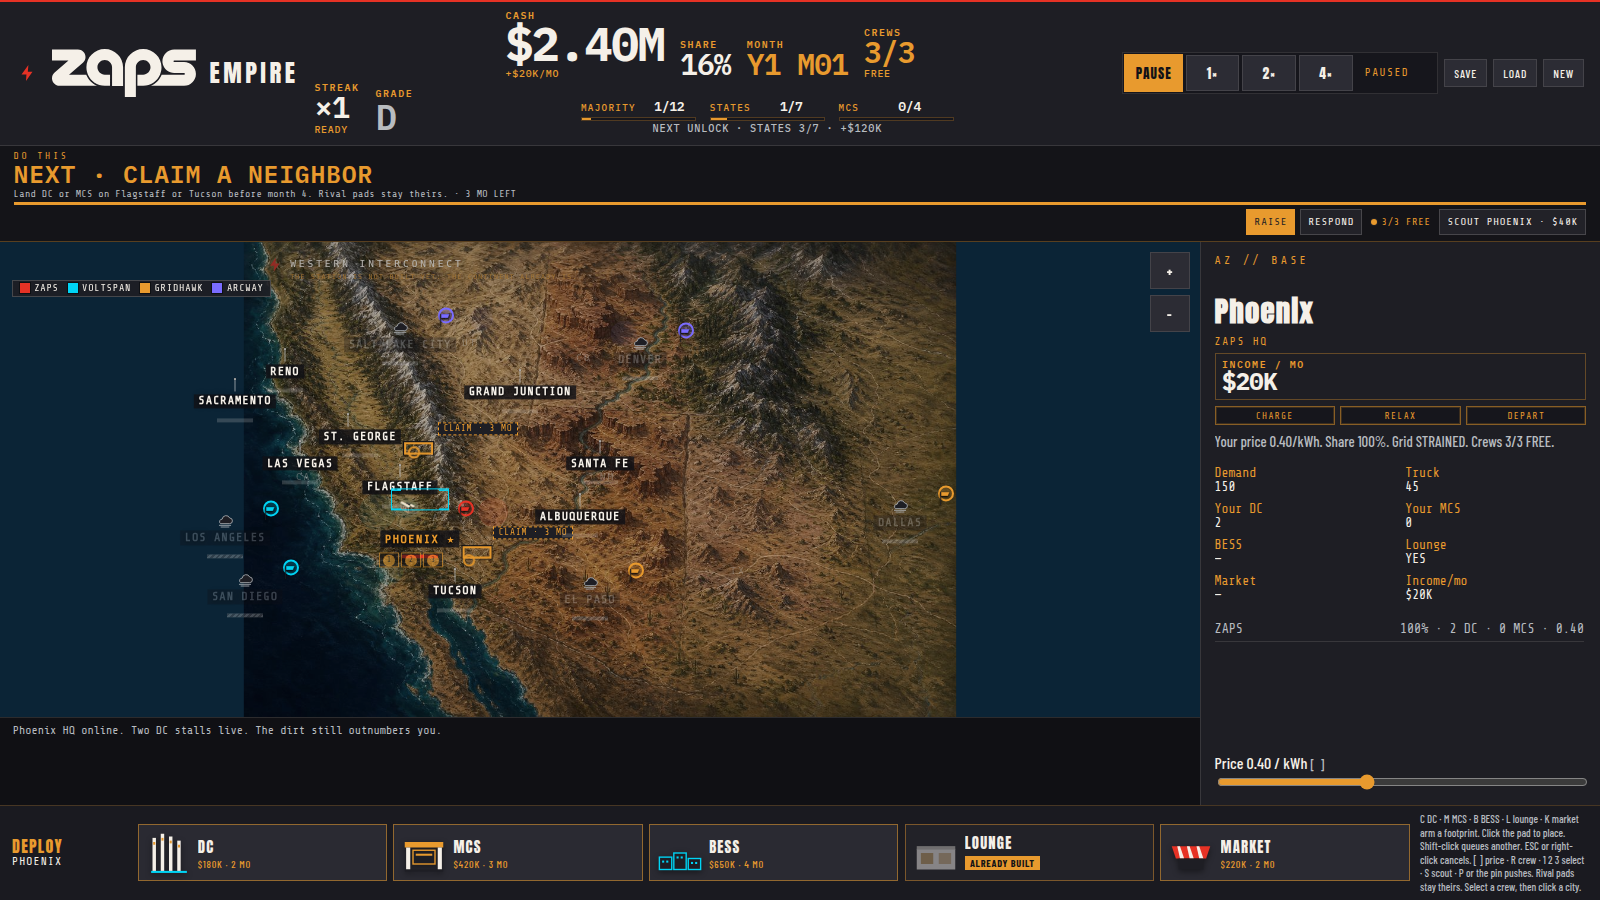
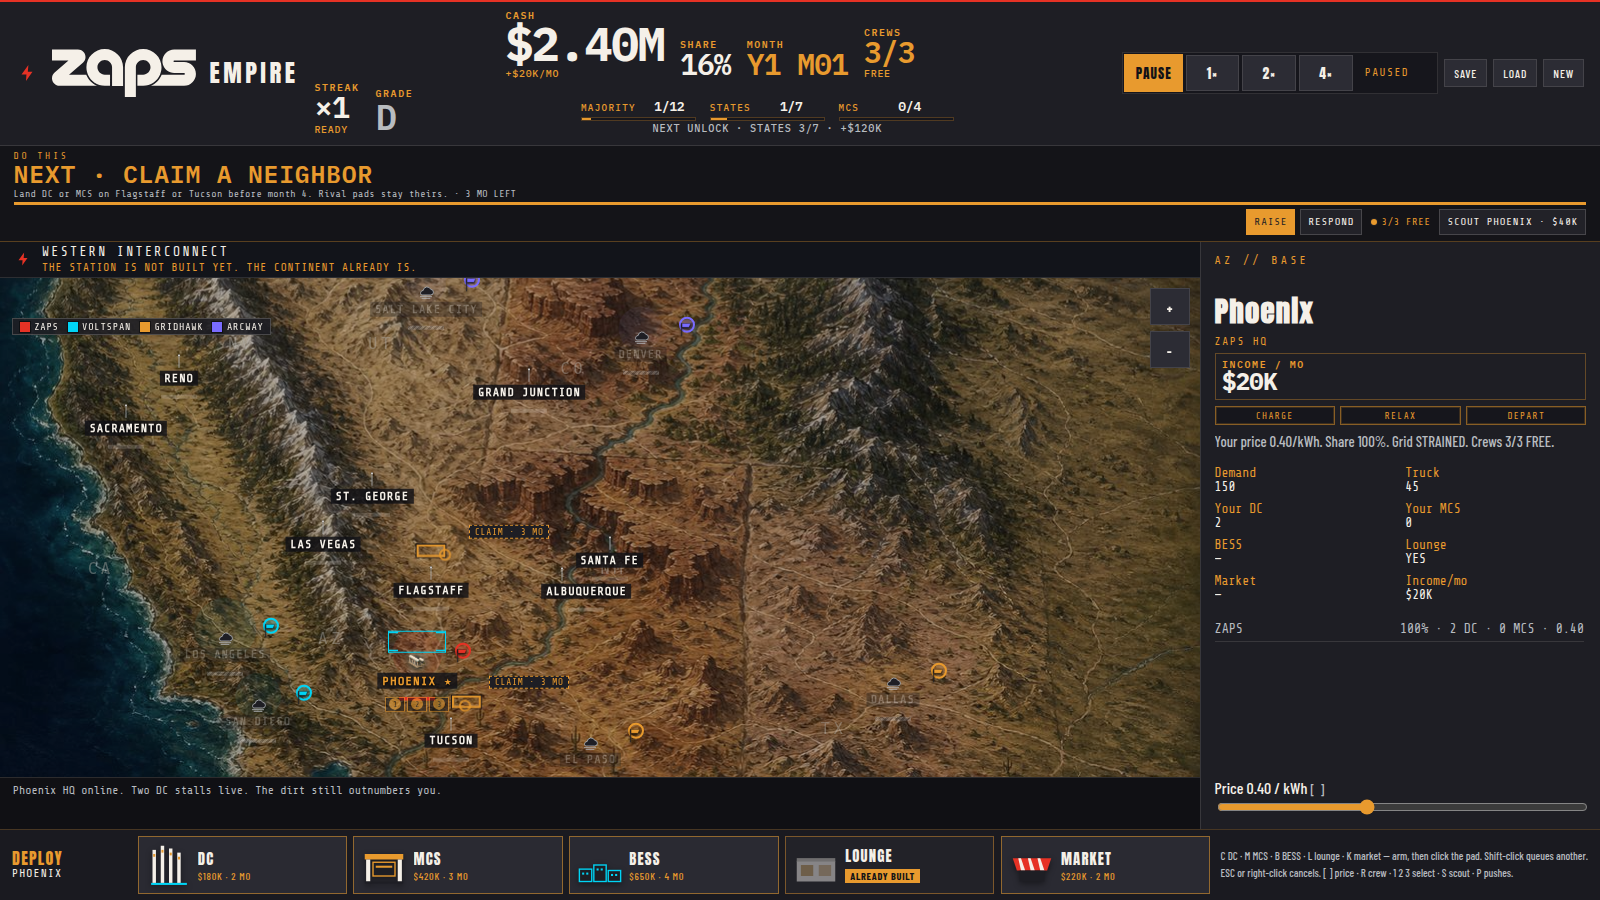
ZAPS EMPIRE: cover the map and seat cities on the terrain (rts-yard-28)
The terrain fills the map panel and pan cannot open a gap. City pins share one lat/lon plane anchored on Los Angeles, Denver, and El Paso. The interconnect title sits in its own strip, and the deploy hotkeys read as two lines.

diff --git a/game.js b/game.js
@@ -166,23 +166,27 @@
     ampfield: { id: "ampfield", name: "AMPFIELD", color: "#2EAF6A", home: "albuquerque", unlock: 24, priceBias: 1.0 },
   };
 
+  // Painted terrain is a 1200×800 plate. Pins use one affine lat/lon → pixel
+  // plane, solved so Los Angeles, Denver, and El Paso sit on their anchors:
+  //   x = 31.125726·lon + 0.435784·lat + 3890.582
+  //   y = -0.925216·lon - 50.595700·lat + 2068.494
   const CITIES = [
-    { id: "sacramento", name: "Sacramento", state: "CA", x: 235, y: 225, demand: 90, truck: 25, land: 1.15, neighbors: ["reno", "la"] },
-    { id: "reno", name: "Reno", state: "NV", x: 285, y: 175, demand: 55, truck: 30, land: 0.9, neighbors: ["sacramento", "vegas", "slc"] },
-    { id: "slc", name: "Salt Lake City", state: "UT", x: 400, y: 130, demand: 95, truck: 40, land: 1.05, neighbors: ["reno", "stgeorge", "grandjunction", "denver"] },
-    { id: "grandjunction", name: "Grand Junction", state: "CO", x: 520, y: 210, demand: 40, truck: 35, land: 0.82, neighbors: ["denver", "flagstaff", "santafe", "slc"] },
+    { id: "sacramento", name: "Sacramento", state: "CA", x: 126, y: 229, demand: 90, truck: 25, land: 1.15, neighbors: ["reno", "la"] },
+    { id: "reno", name: "Reno", state: "NV", x: 179, y: 179, demand: 55, truck: 30, land: 0.9, neighbors: ["sacramento", "vegas", "slc"] },
+    { id: "slc", name: "Salt Lake City", state: "UT", x: 426, y: 110, demand: 95, truck: 40, land: 1.05, neighbors: ["reno", "stgeorge", "grandjunction", "denver"] },
+    { id: "grandjunction", name: "Grand Junction", state: "CO", x: 529, y: 193, demand: 40, truck: 35, land: 0.82, neighbors: ["denver", "flagstaff", "santafe", "slc"] },
     { id: "denver", name: "Denver", state: "CO", x: 640, y: 155, demand: 120, truck: 35, land: 1.2, neighbors: ["santafe", "grandjunction", "slc"] },
     { id: "la", name: "Los Angeles", state: "CA", x: 225, y: 455, demand: 210, truck: 55, land: 1.7, neighbors: ["vegas", "sandiego", "sacramento"] },
-    { id: "vegas", name: "Las Vegas", state: "NV", x: 300, y: 330, demand: 140, truck: 50, land: 1.35, neighbors: ["phoenix", "la", "stgeorge", "reno"] },
-    { id: "stgeorge", name: "St. George", state: "UT", x: 360, y: 285, demand: 45, truck: 28, land: 0.85, neighbors: ["vegas", "flagstaff", "slc"] },
-    { id: "flagstaff", name: "Flagstaff", state: "AZ", x: 400, y: 370, demand: 50, truck: 22, land: 0.88, neighbors: ["phoenix", "stgeorge", "grandjunction"] },
-    { id: "phoenix", name: "Phoenix", state: "AZ", x: 420, y: 455, demand: 150, truck: 45, land: 1.0, neighbors: ["tucson", "flagstaff", "vegas", "albuquerque"] },
-    { id: "sandiego", name: "San Diego", state: "CA", x: 245, y: 555, demand: 130, truck: 30, land: 1.4, neighbors: ["la", "tucson"] },
-    { id: "tucson", name: "Tucson", state: "AZ", x: 455, y: 545, demand: 80, truck: 30, land: 0.92, neighbors: ["phoenix", "elpaso", "sandiego"] },
-    { id: "santafe", name: "Santa Fe", state: "NM", x: 600, y: 330, demand: 48, truck: 18, land: 0.95, neighbors: ["albuquerque", "denver", "grandjunction"] },
-    { id: "albuquerque", name: "Albuquerque", state: "NM", x: 580, y: 420, demand: 85, truck: 40, land: 0.98, neighbors: ["phoenix", "santafe", "elpaso", "dallas"] },
+    { id: "vegas", name: "Las Vegas", state: "NV", x: 323, y: 345, demand: 140, truck: 50, land: 1.35, neighbors: ["phoenix", "la", "stgeorge", "reno"] },
+    { id: "stgeorge", name: "St. George", state: "UT", x: 372, y: 297, demand: 45, truck: 28, land: 0.85, neighbors: ["vegas", "flagstaff", "slc"] },
+    { id: "flagstaff", name: "Flagstaff", state: "AZ", x: 431, y: 391, demand: 50, truck: 22, land: 0.88, neighbors: ["phoenix", "stgeorge", "grandjunction"] },
+    { id: "phoenix", name: "Phoenix", state: "AZ", x: 417, y: 480, demand: 150, truck: 45, land: 1.0, neighbors: ["tucson", "flagstaff", "vegas", "albuquerque"] },
+    { id: "sandiego", name: "San Diego", state: "CA", x: 258, y: 522, demand: 130, truck: 30, land: 1.4, neighbors: ["la", "tucson"] },
+    { id: "tucson", name: "Tucson", state: "AZ", x: 451, y: 541, demand: 80, truck: 30, land: 0.92, neighbors: ["phoenix", "elpaso", "sandiego"] },
+    { id: "santafe", name: "Santa Fe", state: "NM", x: 609, y: 361, demand: 48, truck: 18, land: 0.95, neighbors: ["albuquerque", "denver", "grandjunction"] },
+    { id: "albuquerque", name: "Albuquerque", state: "NM", x: 586, y: 392, demand: 85, truck: 40, land: 0.98, neighbors: ["phoenix", "santafe", "elpaso", "dallas"] },
     { id: "elpaso", name: "El Paso", state: "TX", x: 590, y: 560, demand: 75, truck: 55, land: 0.9, neighbors: ["tucson", "albuquerque", "dallas"] },
-    { id: "dallas", name: "Dallas", state: "TX", x: 900, y: 430, demand: 170, truck: 80, land: 1.25, neighbors: ["albuquerque", "elpaso"] },
+    { id: "dallas", name: "Dallas", state: "TX", x: 892, y: 500, demand: 170, truck: 80, land: 1.25, neighbors: ["albuquerque", "elpaso"] },
   ];
 
   const CITY_BY_ID = Object.fromEntries(CITIES.map((c) => [c.id, c]));
@@ -2956,9 +2960,10 @@
     const sw = stage.clientWidth;
     const sh = stage.clientHeight;
     if (sw < 40 || sh < 40) return;
+    const { fw, fh } = frameSize(sw, sh);
     mapCam.scale = 1.85;
-    const cx = (meta.x / 1200) * sw;
-    const cy = (meta.y / 800) * sh;
+    const cx = (meta.x / 1200) * fw;
+    const cy = (meta.y / 800) * fh;
     mapCam.x = sw * 0.46 - cx * mapCam.scale;
     mapCam.y = sh * 0.42 - cy * mapCam.scale;
     clampCam();
@@ -3967,9 +3972,73 @@
     renderFactionLegend();
   }
 
+  const MAP_ASPECT = 1200 / 800;
+  let mapFramed = false;
+  let mapFitted = false;
+
+  function frameSize(sw, sh) {
+    // One extra pixel past the cover size so subpixel rounding cannot open a gap.
+    if (sw / sh > MAP_ASPECT) return { fw: Math.ceil(sw) + 1, fh: Math.ceil(sw / MAP_ASPECT) + 1 };
+    return { fw: Math.ceil(sh * MAP_ASPECT) + 1, fh: Math.ceil(sh) + 1 };
+  }
+
+  function layoutMapFrame() {
+    const stage = $("map-stage");
+    const frame = $("map-frame");
+    if (!stage || !frame) return null;
+    const sw = stage.clientWidth;
+    const sh = stage.clientHeight;
+    if (sw < 40 || sh < 40) return null;
+    const { fw, fh } = frameSize(sw, sh);
+    frame.style.width = `${fw}px`;
+    frame.style.height = `${fh}px`;
+    if (!mapFramed) {
+      mapCam.scale = 1;
+      const ys = CITIES.map((c) => (c.y / 800) * fh);
+      const xs = CITIES.map((c) => (c.x / 1200) * fw);
+      const top = Math.min(...ys) - 22;
+      const bot = Math.max(...ys) + 32;
+      const left = Math.min(...xs) - 64;
+      const right = Math.max(...xs) + 72;
+      mapCam.x = (sw - (right - left)) / 2 - left;
+      mapCam.y = (sh - (bot - top)) / 2 - top;
+      mapFramed = true;
+    }
+    return { sw, sh, fw, fh };
+  }
+
+  // Once, after the pins and labels exist, shift the opening view so the
+  // northern icon and the southern name both sit inside the stage.
+  function fitCityCam() {
+    if (mapFitted) return;
+    const stage = $("map-stage");
+    if (!stage) return;
+    const box = stage.getBoundingClientRect();
+    if (box.height < 40) return;
+    let minTop = Infinity;
+    let maxBot = -Infinity;
+    document.querySelectorAll(".city-node").forEach((node) => {
+      [node.querySelector(".map-icon"), node.querySelector(".city-label")].forEach((el) => {
+        if (!el) return;
+        const r = el.getBoundingClientRect();
+        if (r.width < 2 || r.height < 2) return;
+        minTop = Math.min(minTop, r.top);
+        maxBot = Math.max(maxBot, r.bottom);
+      });
+    });
+    if (!Number.isFinite(minTop)) return;
+    const pad = 6;
+    const overflowTop = box.top + pad - minTop;
+    const overflowBot = maxBot - (box.bottom - pad);
+    mapCam.y -= (overflowBot - overflowTop) / 2;
+    mapFitted = true;
+  }
+
   function applyMapCam() {
     const cam = $("map-cam");
     if (!cam) return;
+    layoutMapFrame();
+    clampCam();
     cam.style.transform = `translate(${mapCam.x}px, ${mapCam.y}px) scale(${mapCam.scale})`;
     $("btn-exit-site")?.classList.toggle("hidden", !siteView);
     $("map-stage")?.classList.toggle("site-open", Boolean(siteView));
@@ -5600,16 +5669,21 @@
 
   function clampCam() {
     const stage = $("map-stage");
-    if (!stage) return;
+    const frame = $("map-frame");
+    if (!stage || !frame) return;
     const sw = stage.clientWidth;
     const sh = stage.clientHeight;
+    if (sw < 40 || sh < 40) return;
+    const { fw, fh } = frameSize(sw, sh);
+    frame.style.width = `${fw}px`;
+    frame.style.height = `${fh}px`;
     mapCam.scale = Math.min(3.4, Math.max(1, mapCam.scale));
-    const slackX = sw * 0.45;
-    const slackY = sh * 0.45;
-    const minX = sw - sw * mapCam.scale - slackX;
-    const maxX = slackX;
-    const minY = sh - sh * mapCam.scale - slackY;
-    const maxY = slackY;
+    const visW = fw * mapCam.scale;
+    const visH = fh * mapCam.scale;
+    const minX = Math.min(0, sw - visW);
+    const maxX = 0;
+    const minY = Math.min(0, sh - visH);
+    const maxY = 0;
     mapCam.x = Math.min(maxX, Math.max(minX, mapCam.x));
     mapCam.y = Math.min(maxY, Math.max(minY, mapCam.y));
   }
@@ -6060,12 +6134,17 @@
     renderInspector();
     renderTray();
     renderTicker();
-    applyMapCam();
     renderSiteYard();
     renderOps();
     renderWaypointHint();
     $("map-stage")?.classList.toggle("await-waypoint", Boolean(waypointCrew()) && !siteView);
+    applyMapCam();
     settleMapChrome();
+    if (!mapFitted && !siteView) {
+      fitCityCam();
+      applyMapCam();
+      settleMapChrome();
+    }
   }
 
   function hasSave() {
@@ -6513,6 +6592,7 @@
       b.addEventListener("click", () => setSpeed(Number(b.dataset.speed)));
     });
     window.addEventListener("resize", () => {
+      applyMapCam();
       settleMapChrome();
       const stack = $("site-stack");
       if (stack && siteView) frameSiteStack(stack, stack.style.aspectRatio || "220 / 131");

diff --git a/index.html b/index.html
@@ -136,10 +136,17 @@
 
       <div class="board-body">
         <div class="map-wrap">
+          <header class="map-banner">
+            <img class="bolt" src="assets/brand/bolt-red.svg" alt="" />
+            <div>
+              <p class="map-banner-title">WESTERN INTERCONNECT</p>
+              <p class="map-banner-sub">THE STATION IS NOT BUILT YET. THE CONTINENT ALREADY IS.</p>
+            </div>
+          </header>
           <div class="map-stage" id="map-stage">
             <div class="map-cam" id="map-cam">
               <div class="map-frame" id="map-frame">
-                <img class="map-art map-paint" src="assets/map.svg?v=rts-yard-4" alt="Southwest charging continent" />
+                <img class="map-art map-paint" src="assets/map.svg?v=rts-yard-28" alt="Southwest charging continent" />
                 <svg class="corridor-layer" id="corridor-layer" viewBox="0 0 1200 800" overflow="visible" aria-hidden="true"></svg>
                 <div id="city-layer" class="city-layer"></div>
               </div>
@@ -209,8 +216,8 @@
         <div class="tray-label" id="tray-label">DEPLOY</div>
         <div class="tray-grid" id="tray-grid"></div>
         <div class="tray-note">
-          C DC · M MCS · B BESS · L lounge · K market arm a footprint. Click the pad to place. Shift-click queues another. ESC or right-click cancels. [ ] price · R crew · 1 2 3 select · S scout · P or the pin pushes.
-          Rival pads stay theirs. Select a crew, then click a city.
+          <span>C DC · M MCS · B BESS · L lounge · K market — arm, then click the pad. Shift-click queues another.</span>
+          <span>ESC or right-click cancels. [ ] price · R crew · 1 2 3 select · S scout · P pushes.</span>
         </div>
       </footer>
     </section>

diff --git a/styles.css b/styles.css
@@ -522,14 +522,51 @@ button {
 
 .map-wrap {
   display: grid;
-  grid-template-rows: 1fr 88px;
+  grid-template-rows: auto 1fr 52px;
   min-height: 0;
   overflow: hidden;
   background: #0b2436;
 }
 
+.map-banner {
+  display: flex;
+  align-items: center;
+  gap: 0.65rem;
+  padding: 0.14rem 0.85rem 0.16rem;
+  background: #12141a;
+  border-bottom: 1px solid rgba(245, 240, 232, 0.12);
+}
+
+.map-banner .bolt {
+  width: 18px;
+  height: 22px;
+  flex: none;
+}
+
+.map-banner-title {
+  margin: 0;
+  font-family: "Share Tech Mono", monospace;
+  font-size: 13px;
+  letter-spacing: 0.18em;
+  color: var(--cream);
+  line-height: 1.2;
+}
+
+.map-banner-sub {
+  margin: 0.08rem 0 0;
+  font-family: "Share Tech Mono", monospace;
+  font-size: 11px;
+  letter-spacing: 0.08em;
+  color: var(--amber);
+  line-height: 1.25;
+}
+
 .map-wrap:has(.site-overlay:not(.hidden)) {
   grid-template-rows: 1fr;
+}
+
+.map-wrap:has(.site-overlay:not(.hidden)) .map-banner {
+  display: none;
 }
 
 #board-screen:has(.site-overlay:not(.hidden)) {
@@ -561,9 +598,9 @@ button {
 }
 
 .map-frame {
-  position: relative;
-  width: 100%;
-  height: 100%;
+  position: absolute;
+  left: 0;
+  top: 0;
   overflow: visible;
 }
 
@@ -3172,9 +3209,17 @@ button {
 
 .tray-note {
   color: var(--steel);
-  font-size: 0.68rem;
-  max-width: 168px;
-  line-height: 1.25;
+  font-size: 11px;
+  line-height: 1.35;
+  max-width: 36rem;
+  display: flex;
+  flex-direction: column;
+  gap: 0.12rem;
+}
+
+.tray-note span {
+  display: block;
+  white-space: nowrap;
 }
 
 .modal {
@@ -3337,7 +3382,7 @@ button {
   }
 
   .map-wrap {
-    grid-template-rows: 1fr 72px;
+    grid-template-rows: auto 1fr 48px;
   }
 
   .map-wrap:has(.site-overlay:not(.hidden)) {

diff --git a/docs/shots/REVIEW.md b/docs/shots/REVIEW.md
@@ -1,6 +1,6 @@
 # Empire playtest — rts-yard-28
 
-Replay stills at 1600×900: armed DC footprint on an open pad at two cursor spots (`yard-arm-a-28.png`, `yard-arm-b-28.png`) · contested yard with the income float above the kit roof (`yard-floats-28.png`) · map with CLAIM brackets and crew chips clear of neighbors (`yard-map-28.png`).
+Replay stills at 1600×900: armed DC footprint on an open pad at two cursor spots (`yard-arm-a-28.png`, `yard-arm-b-28.png`) · contested yard with the income float above the kit roof (`yard-floats-28.png`) · map with the terrain covering the panel and cities on the painted coast (`yard-map-28.png`, zoomed `yard-map-zoom-28.png`).
 
 ## rts-yard-28
 
@@ -9,7 +9,7 @@ Live play of rts-yard-27.
 - **Arm, then place.** Tray click or C/M/B/L/K only arms the footprint. The pad click commits to the hovered or nearest free slot. Shift-click stays armed for another. ESC or right-click cancels. `__EMPIRE_SMOKE__.deploy(kind, slot)` still queues directly for tests.
 - **Floats.** Income floats sit above the kit roof and inside the frame.
 - **Toasts.** Grade and idle notes stack at the top center of the map and dismiss themselves.
-- **Map.** CLAIM brackets stay out of the St. George / Las Vegas gap. Phoenix crew chips stay off the Tucson bracket. The crew count no longer carries a trailing dot.
+- **Map.** CLAIM brackets stay out of the St. George / Las Vegas gap. Phoenix crew chips stay off the Tucson bracket. The crew count no longer carries a trailing dot. The terrain covers the map panel and the pan cannot open a gap. City pins use one lat/lon plane anchored on Los Angeles, Denver, and El Paso, so Los Angeles and San Diego sit on the coast and Las Vegas, Phoenix, and Tucson sit inland. The Western Interconnect title is a strip above the map. The deploy-bar hotkeys are two lines at 11px.
 
 ## rts-yard-27
 
